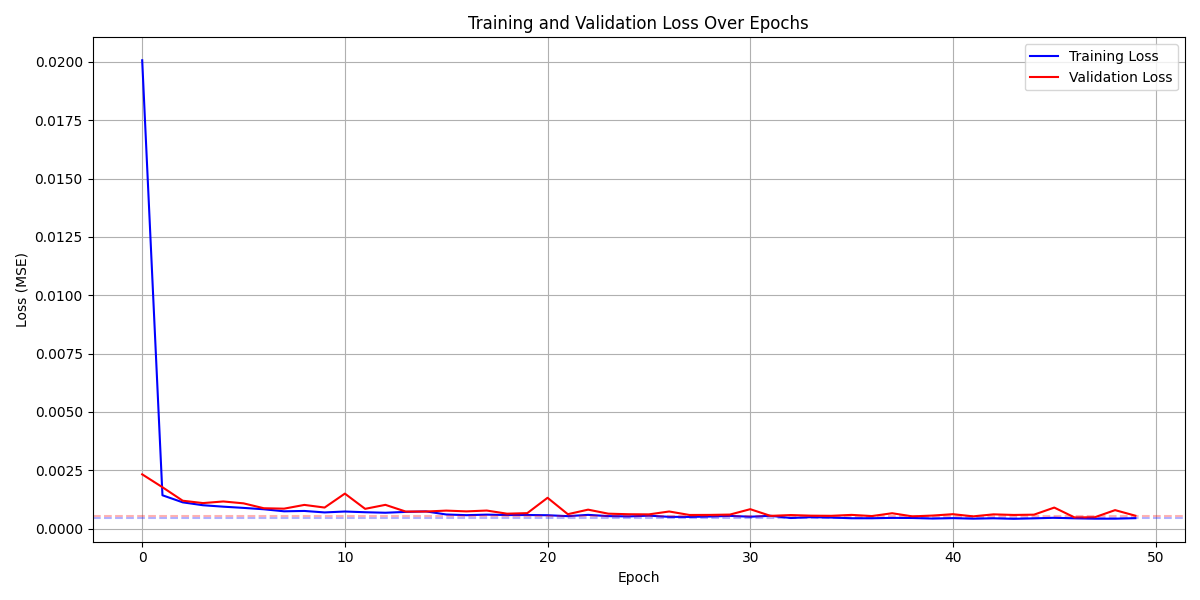
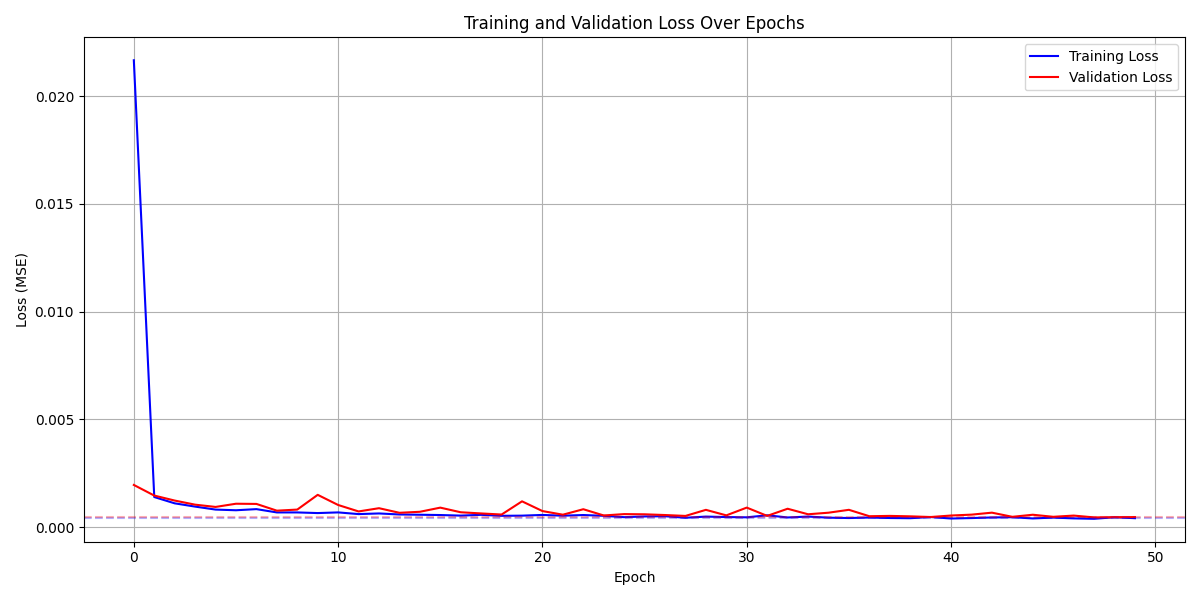
Added missing function from resolving conflicts

diff --git a/src/models/lstm_model.py b/src/models/lstm_model.py
@@ -274,7 +274,7 @@ def train_lstm_model(csv_file: str, time_steps: int = 1, epochs: int = 30, batch
     # Plot
     plot_actual_vs_predicted(y_test_true, y_pred, date_index=date_index, save_path="report/actual_vs_predicted.png")
 
-    # After model.fit, add:
+     # After model.fit, add:
     print("\nModel Fitting Analysis:")
     fitting_analysis = analyze_lstm_fitting(history, y_test_true, y_pred)
     print(fitting_analysis["analysis"])
@@ -308,7 +308,9 @@ def train_lstm_model(csv_file: str, time_steps: int = 1, epochs: int = 30, batch
     plt.savefig(loss_plot_path)
     print(f"✅ Enhanced loss analysis plot saved to {loss_plot_path}")
 
-    return model, history
+    metrics = (mse, rmse, mae, r2, direction_accuracy)
+    return model, history, metrics
+
 
 
 def plot_training_history(history, save_path="report/loss_plot.png"):
@@ -480,7 +482,7 @@ def analyze_lstm_complexity(
     import os
     
     # Calculate trainable parameters
-    trainable_params = np.sum([np.prod(v.get_shape()) for v in model.trainable_variables])
+    trainable_params = np.sum([np.prod(v.shape) for v in model.trainable_variables])
     
     complexity = {
         "training_time": end_time - start_time,

diff --git a/README.md b/README.md
@@ -113,3 +113,4 @@ This project is licensed under the MIT License - see the LICENSE file for detail
 ## Commands
 1) python src/train.py --input data/raw/AAWW.csv --model-type modelName --ablation : Running ablation for traditional models
 2) python src/models/lstm_model.py --csv data/raw/AAWW.csv --ablation : Running ablation for lstm model
+3) python src/train.py --input data/raw/AAWW.csv --model-type rf --output-dir report: Fitting data / Model Fitting Analysis (Overfitting/Underfitting)